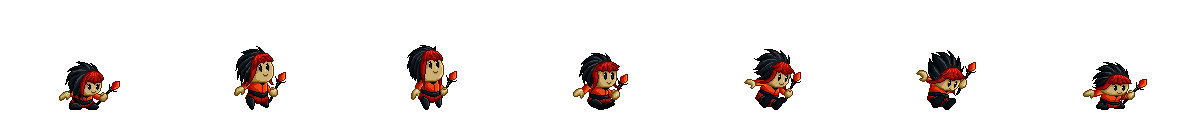
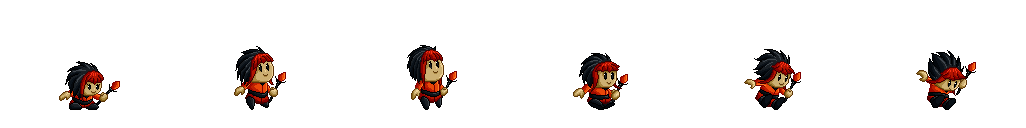
landing animation

diff --git a/src/entities/Hero.js b/src/entities/Hero.js
@@ -10,7 +10,7 @@ class Hero extends Phaser.GameObjects.Sprite {
     keySpace;
     keyX;
 
-    heroState = 'idle';
+    heroState = 'fall';
     animState = 'idle';
     lastFire = 0;
 
@@ -21,6 +21,10 @@ class Hero extends Phaser.GameObjects.Sprite {
 
         scene.add.existing(this);
         scene.physics.add.existing(this);
+
+        if(!(this.body instanceof Phaser.Physics.Arcade.Body)) {
+            throw "Not body";
+        }
 
         this.body.setSize(33, 54);
         this.body.setOffset(70, 57);
@@ -40,16 +44,27 @@ class Hero extends Phaser.GameObjects.Sprite {
         super.preUpdate(time, delta);
         this.updateHeroState();
         this.updateAnimationState();
-        //console.log("hero: " + this.heroState + ", animation: " + this.animState); 
+        // console.log("hero: " + this.heroState + ", animation: " + this.animState); 
     }
 
     updateHeroState() {
-        if (this.keyLeft.isUp && this.keyRight.isUp && (this.body.velocity.y == 0 && this.body.onFloor())) {
-            this.heroState = 'idle';
-            this.body.setAccelerationX(0);
+
+        if(!(this.body instanceof Phaser.Physics.Arcade.Body)) {
+            return;
         }
 
-        if (this.keyLeft.isDown && this.keyShift.isUp && (this.body.velocity.y == 0 && this.body.onFloor())) {
+        let isOnFloor = this.body.velocity.y == 0 && this.body.onFloor();
+
+        if (this.keyLeft.isUp && this.keyRight.isUp && isOnFloor && this.heroState != 'landing') {
+            if(this.heroState == 'jump' || this.heroState == 'high-jump' || this.heroState == 'fall') {
+                this.heroState = 'landing';    
+            } else {
+                this.heroState = 'idle';
+                this.body.setAccelerationX(0);
+            }
+        }
+
+        if (this.keyLeft.isDown && this.keyShift.isUp && isOnFloor) {
             this.body.setMaxVelocity(200, 400);
             this.body.setAccelerationX(-500);
             this.body.setOffset(171 - 70 - 33, 57);
@@ -57,7 +72,7 @@ class Hero extends Phaser.GameObjects.Sprite {
             this.heroState = 'walk';
         }
 
-        if (this.keyLeft.isDown && this.keyShift.isDown && (this.body.velocity.y == 0 && this.body.onFloor())) {
+        if (this.keyLeft.isDown && this.keyShift.isDown && isOnFloor) {
             this.body.setMaxVelocity(400, 400);
             this.body.setAccelerationX(-500);
             this.body.setOffset(171 - 70 - 33, 57);
@@ -65,7 +80,7 @@ class Hero extends Phaser.GameObjects.Sprite {
             this.heroState = 'run';
         }
 
-        if (this.keyRight.isDown && this.keyShift.isUp && (this.body.velocity.y == 0 && this.body.onFloor())) {
+        if (this.keyRight.isDown && this.keyShift.isUp && isOnFloor) {
             this.body.setMaxVelocity(200, 400);
             this.body.setAccelerationX(500);
             this.body.setOffset(70, 57);
@@ -74,7 +89,7 @@ class Hero extends Phaser.GameObjects.Sprite {
 
         }
 
-        if (this.keyRight.isDown && this.keyShift.isDown && (this.body.velocity.y == 0 && this.body.onFloor())) {
+        if (this.keyRight.isDown && this.keyShift.isDown && isOnFloor) {
             this.body.setMaxVelocity(400, 400);
             this.body.setAccelerationX(500);
             this.body.setOffset(70, 57);
@@ -106,6 +121,16 @@ class Hero extends Phaser.GameObjects.Sprite {
                 this.body.setAccelerationX(-500);
             }
         }
+
+        // if (this.heroState == 'landing') {
+        //     if(this.animState != 'landing') {
+        //         this.langingAnimTimer = Date.now();
+        //     } else {
+        //         if(Date.now() - this.langingAnimTimer > 1000) {
+        //             this.heroState = 'idle';
+        //         }
+        //     }
+        // }
     }
 
     updateAnimationState() {
@@ -145,6 +170,13 @@ class Hero extends Phaser.GameObjects.Sprite {
         if (this.heroState == 'fall' && this.animState != 'fall' && this.animState != 'attack') {
             this.animState = 'fall';
             this.anims.play('hero-fall');
+        }
+        if (this.heroState == 'landing' && this.animState != 'landing') {
+            this.animState = 'landing';
+            this.anims.play('hero-landing');
+            this.once(Phaser.Animations.Events.SPRITE_ANIMATION_COMPLETE, () => {
+                this.heroState = 'idle';
+            })
         }
     }
 

diff --git a/src/scenes/Game.js b/src/scenes/Game.js
@@ -17,6 +17,7 @@ class Game extends Phaser.Scene {
     this.load.spritesheet('attack-spritesheet', 'assets/mage/attack/attack.png', { frameWidth: 171, frameHeight: 128 });
     this.load.spritesheet('fire-move-spritesheet', 'assets/mage/fire_extra/fire-move.png', { frameWidth: 128, frameHeight: 128 });
     this.load.spritesheet('fire-explosion-spritesheet', 'assets/mage/fire_extra/fire-explosion.png', { frameWidth: 128, frameHeight: 128 });
+    this.load.spritesheet('landing-spritesheet', 'assets/mage/landing/landing.png', { frameWidth: 171, frameHeight: 128 });
 
     this.load.tilemapTiledJSON('level1', 'assets/tilemaps.json');
     this.load.image('level1-sheet', 'assets/tiles/tiles.png ');
@@ -96,6 +97,13 @@ class Game extends Phaser.Scene {
       key: 'bullet-explosion',
       frames: this.anims.generateFrameNumbers('fire-explosion-spritesheet', {}),
       frameRate: 20,
+      repeat: 0,
+    });
+
+    this.anims.create({
+      key: 'hero-landing',
+      frames: this.anims.generateFrameNumbers('landing-spritesheet', {}),
+      frameRate: 10,
       repeat: 0,
     });
   
